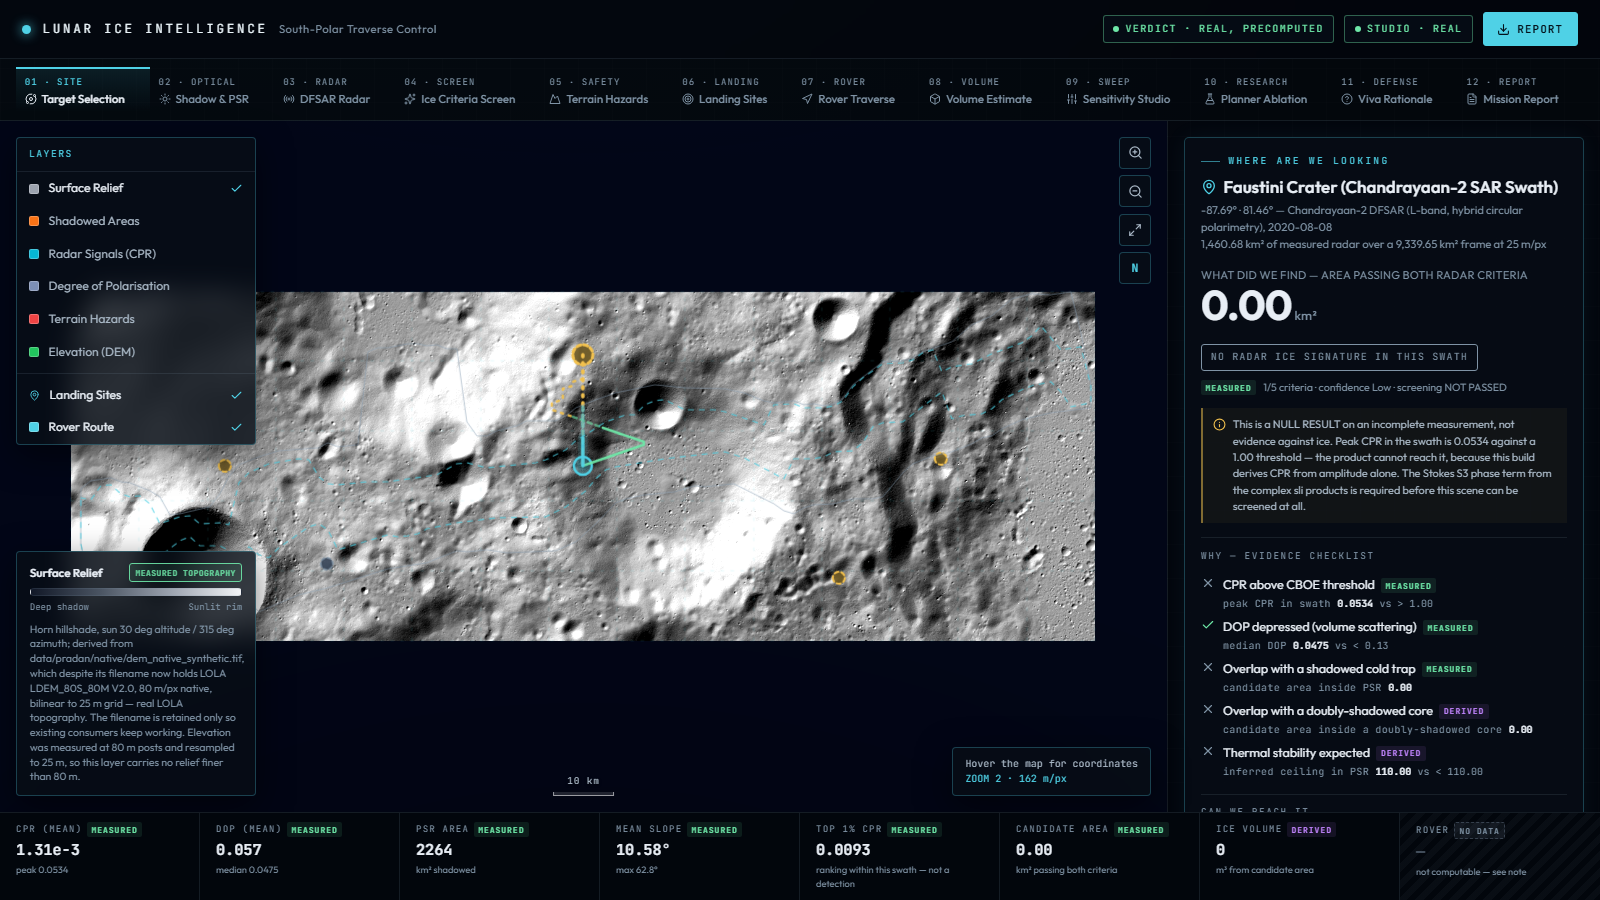
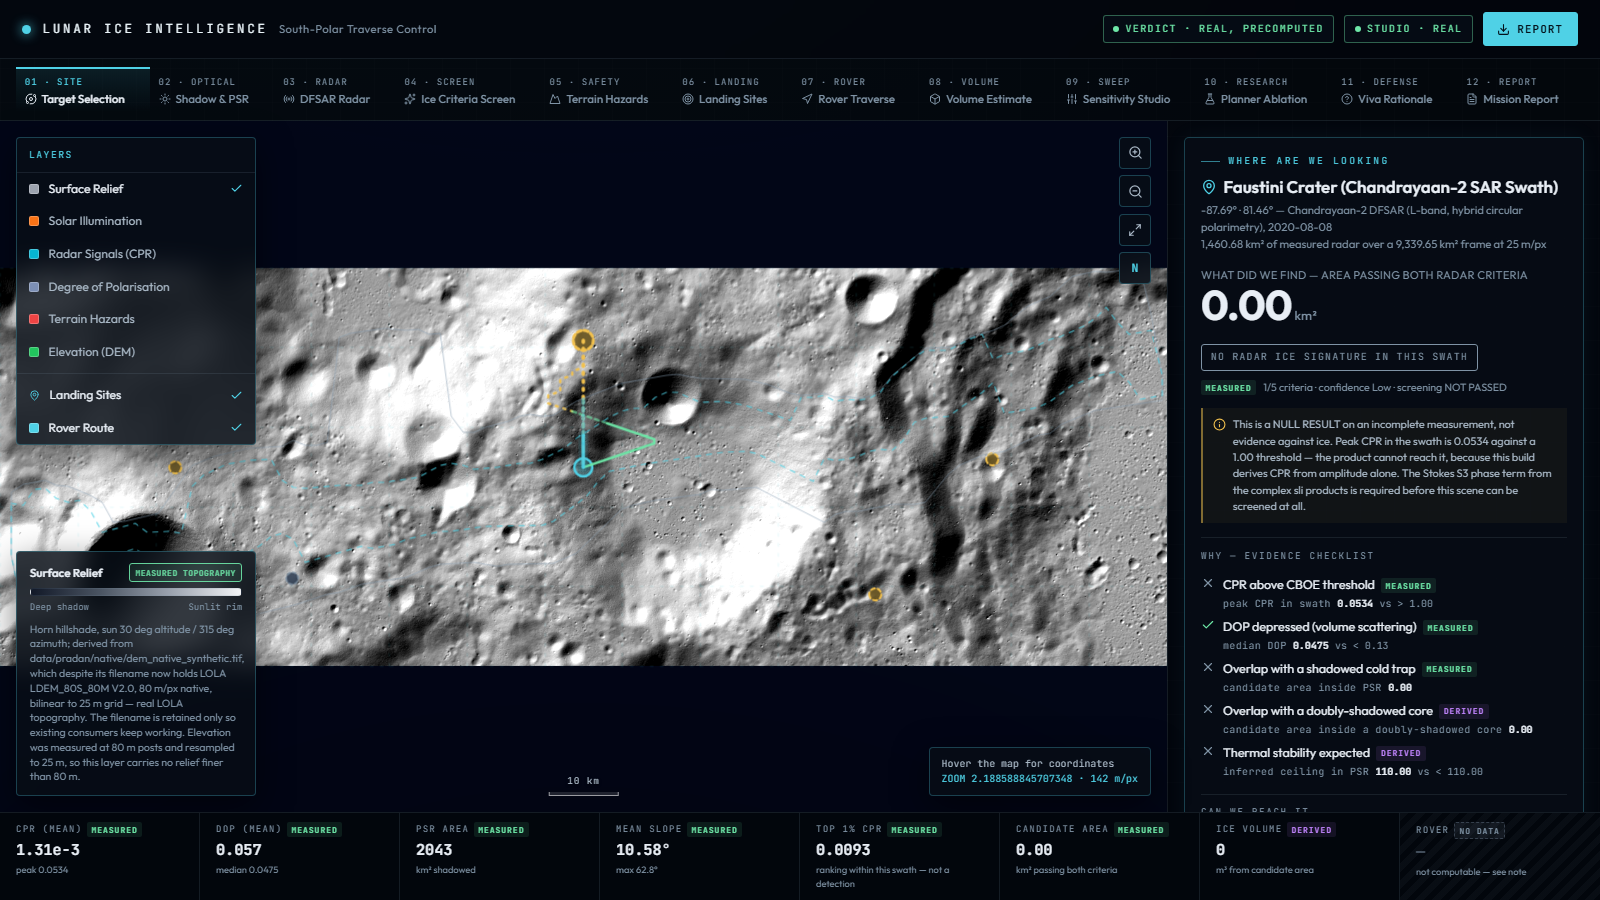
Zoom-out floor: measured, two distinct bugs found, and now asserted
MEASURED FIRST, as instructed, rather than re-implemented blind.

  geom.bounds        [[0,0],[87.344817,256]]  aspect 2.9311 = 6618/2258 exactly
                     -- the raster's own bounds from layers.json crs, neither
                     padded nor hardcoded
  maxBounds          set, maxBoundsViscosity 1.0, both present on the instance
  minZoom            2.0
  getBoundsZoom(b,false)  2.0
  true unsnapped fit      2.0795
  frame at the floor      1024 px wide in a 1082 px panel -- 94.6 % fill

BUG ONE. map.getBoundsZoom() RESPECTS zoomSnap (0.5 here) and FLOORS its answer
to a snap increment, so a true fit of 2.0795 was set as 2.0 and the floor sat one
snap step too far out. How big the gap looks depends on where the true fit falls
between snap steps: worst case is a fit just under a boundary, 2^-0.5 = 70.7 % of
the width and half the area. That size dependence is why this reads as
intermittent, why it passed whatever panel it was first tested on, and why it has
now regressed twice.

The fix computes the fit directly through Leaflet's own projection at zoom 0 --
CRS-agnostic, no assumption that one CRS unit is one pixel -- and takes the exact
log2. Never snapped, never a literal, recomputed by the existing ResizeObserver.

BUG TWO, WHICH I INTRODUCED IN THE FIRST ATTEMPT AT BUG ONE AND WHICH WAS WORSE.
geom.bounds is an L.LatLngBoundsLiteral -- a PLAIN ARRAY, not an L.LatLngBounds --
so it has no getNorthWest(). getBoundsZoom() had been hiding that by calling
[…]

diff --git a/frontend/src/mission/MissionMap.tsx b/frontend/src/mission/MissionMap.tsx
@@ -742,8 +742,38 @@ export const MissionMap = forwardRef<MissionMapHandle, Props>(function MissionMa
     //
     // maxBounds + maxBoundsViscosity: 1.0 (constructor, above) do the matching
     // job for panning; together they mean the frame is the world.
+    // DO NOT use map.getBoundsZoom() here. It respects `zoomSnap` (0.5 above)
+    // and FLOORS its answer to a snap increment, so a true fit of 2.0795 comes
+    // back as 2.0 and the floor is set one snap step too far out. Measured on
+    // a 1082x467 panel: frame 1024 px wide in a 1082 px viewport, 94.6 % fill.
+    // The size of the gap depends on where the true fit falls between snap
+    // steps, and the worst case is a fit just under a boundary -- 2^-0.5 =
+    // 70.7 % of the width and half the area, which is the "postage stamp in a
+    // grey field" this floor exists to prevent. That size dependence is also
+    // why the bug reads as intermittent and why it survived a previous fix.
+    //
+    // So compute the fit directly, through Leaflet's own projection at zoom 0
+    // (CRS-agnostic -- no assumption that 1 CRS unit is 1 px) and take the
+    // exact log2. Never snapped, never a literal, and recomputed on resize.
+    // geom.bounds is an L.LatLngBoundsLiteral — a PLAIN ARRAY, not an
+    // L.LatLngBounds — so it has no getNorthWest(). map.getBoundsZoom() hid that
+    // by calling toLatLngBounds() internally; computing the fit by hand does
+    // not, and the missing conversion threw a TypeError that aborted this whole
+    // effect, leaving minZoom at its constructor value of 0. That is far worse
+    // than the snapping bug being fixed here: at zoom 0 the frame is 256 px wide
+    // in a 1081 px panel, 23.7 % fill.
+    const fitBoundsLL = L.latLngBounds(geom.bounds);
+    const fitZoomOut = () => {
+      const nw = map.project(fitBoundsLL.getNorthWest(), 0);
+      const se = map.project(fitBoundsLL.getSouthEast(), 0);
+      const w = Math.abs(se.x - nw.x);
+      const h = Math.abs(se.y - nw.y);
+      const size = map.getSize();
+      if (!(w > 0 && h > 0 && size.x > 0 && size.y > 0)) return map.getMinZoom();
+      return Math.log2(Math.min(size.x / w, size.y / h));
+    };
     const clampZoomOut = () => {
-      map.setMinZoom(map.getBoundsZoom(geom.bounds, false));
+      map.setMinZoom(fitZoomOut());
     };
     clampZoomOut();
     // The panel resizes with the window and with the side rails opening and

diff --git a/PRD.md b/PRD.md
@@ -261,6 +261,16 @@ These never relax. They are the working rules from the old
    placeholder overstates a measurement. Such a criterion may be kept when it is
    a real mission constraint that a different frame would bind on -- but it must
    never be counted as evidence of selectivity.
+5c. **A caption asserting ABSENCE over a real measurement is the same defect
+   class as a plausible placeholder standing in for one.** Both are a caption
+   that stopped tracking its own computation; they differ only in direction, and
+   **understating is not safer than overstating.** Step 2's panel rendered
+   `<StepUnavailable title="Shadow and PSR mapping">` above four real MEASURED
+   and DERIVED values, under a heading reading "This build does not have one
+   yet", for as long as it took anyone to look — all three written before Phase 2
+   and none updated when the horizon computation shipped. When a phase lands,
+   its panel copy, its step gate and its notes are part of the deliverable, not
+   commentary on it.
 
 **Engineering**
 
